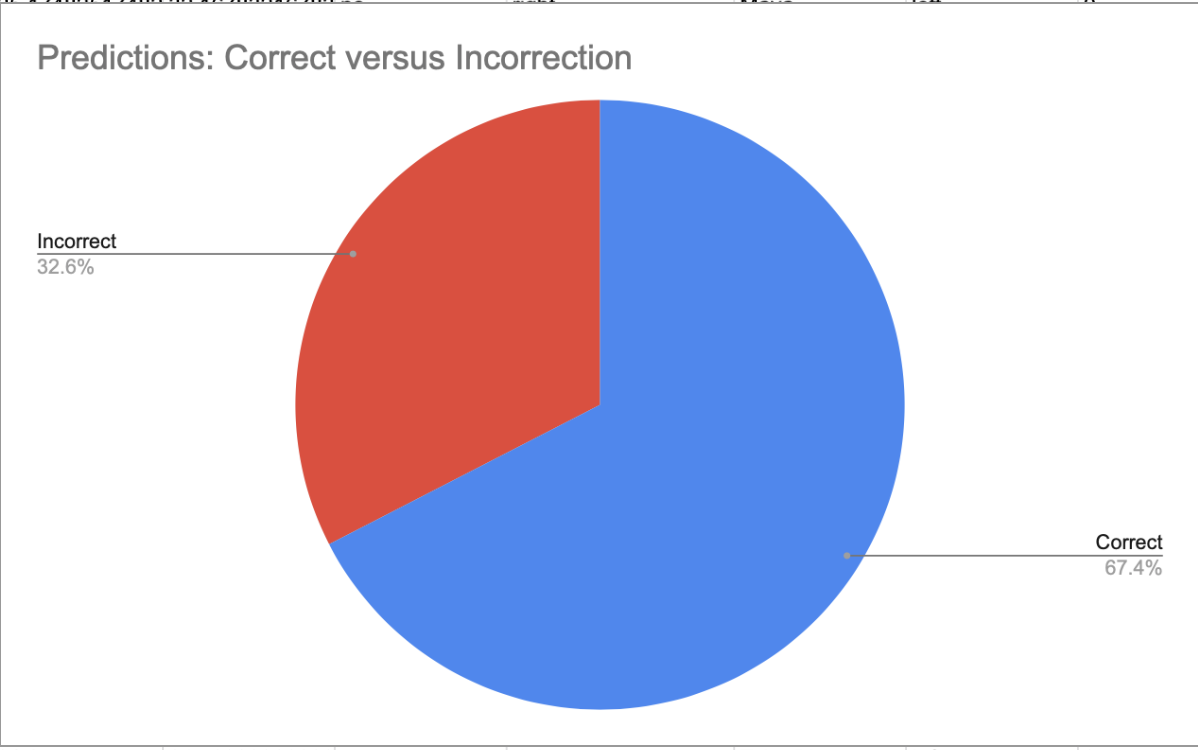
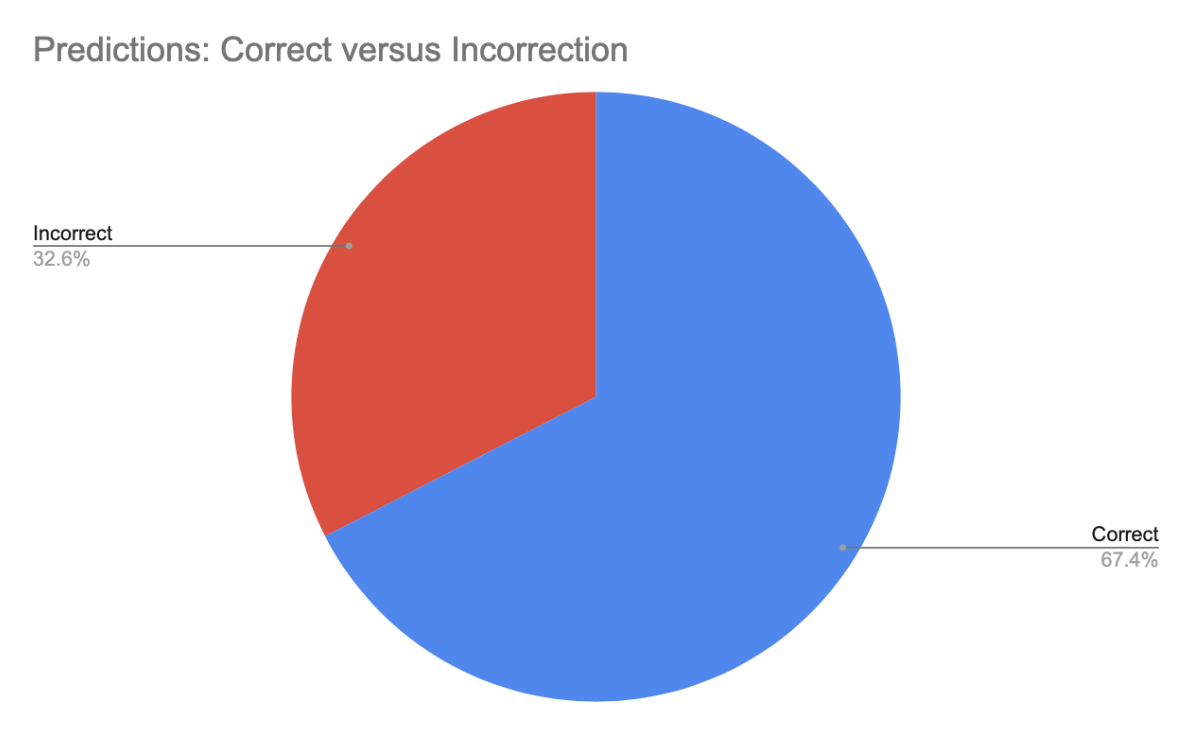
Update README and include basic results

diff --git a/README.md b/README.md
@@ -4,6 +4,8 @@ The QAZPLM Program demonstrates hidden biases in the inferences made by larger s
 
 With this, the computer then makes an inference regarding what handedness the user is. The user's decisions or unnoticed hand bias will determine the computer's handedness inference.
 
+While an incorrect handedness prediction may not seem major, when other algorithms make incorrect assumptions and predictions about a user for say things like advertisements the implications can become more serious.
+
 ## Running The Program Using Docker
 
 It is easy to run the QAZPLM program on any machine as the project comes with included Docker files that set up environments specific to the user's machine.
@@ -89,6 +91,14 @@ You can then run the command `pipenv run python3 qazplm.py` to run the program.
 Here is a results table that is displayed at the end of the program. It displays the trial, the number of letters entered for a given trial, and the percentages for where letters were entered on the keyboard.
 
 In addition to the regular trials, the table also contains a "Total" trial row which sums all the data from each trial together. This gives the user a good picture of their overall results. It also contains a "Generated Data" trial row which contains the results of randomly generating another letter dataset the same size as Total, with the letters being randomly picked based on probabilities derived from the percentages of individual letters entered by the user. This helps paint a picture of how an algorithm can manipulate data and if the data is biased (heavy in one area) how that can affect this manipulation.
+
+### Class Exercise Results
+
+A class of CS301 (Data Analytics) students used the tool, answering questions like those found in `questions.md`. With this, they also inputted their results into a [collaborative Google Sheet](https://docs.google.com/spreadsheets/d/11KEex7QNXOqKhE-nQtkI5_tfjOIAzmh_OLlZn8G2vhg/edit?usp=sharing) (which can be accessed with an `@allegheny.edu` account).
+
+Through 44 trials the results of the program's handedness prediction were mostly correct, with an accuracy of 67.4%.
+
+![Results Graph](images/results_graph.png)
 
 ## Ideas, Issues, or Praise?
 

diff --git a/questions.md b/questions.md
@@ -23,6 +23,6 @@ Choose the options as shown in the picture (Append to current sheet, Detect Auto
 Your `results.csv` will then be added to the Google Sheet for future analysis. Does anything stick out to you in the populated sheet?
 
 
-![Import CSV to Sheets](csv.png)
+![Import CSV to Sheets](images/csv.png)
 
 If you want to use the program to gain insights about the class-wide Google Sheet simply export it as a CSV. Then when you run the program, after you run new trials, you will have the option to read in the "class-wide" CSV file for further analysis.
